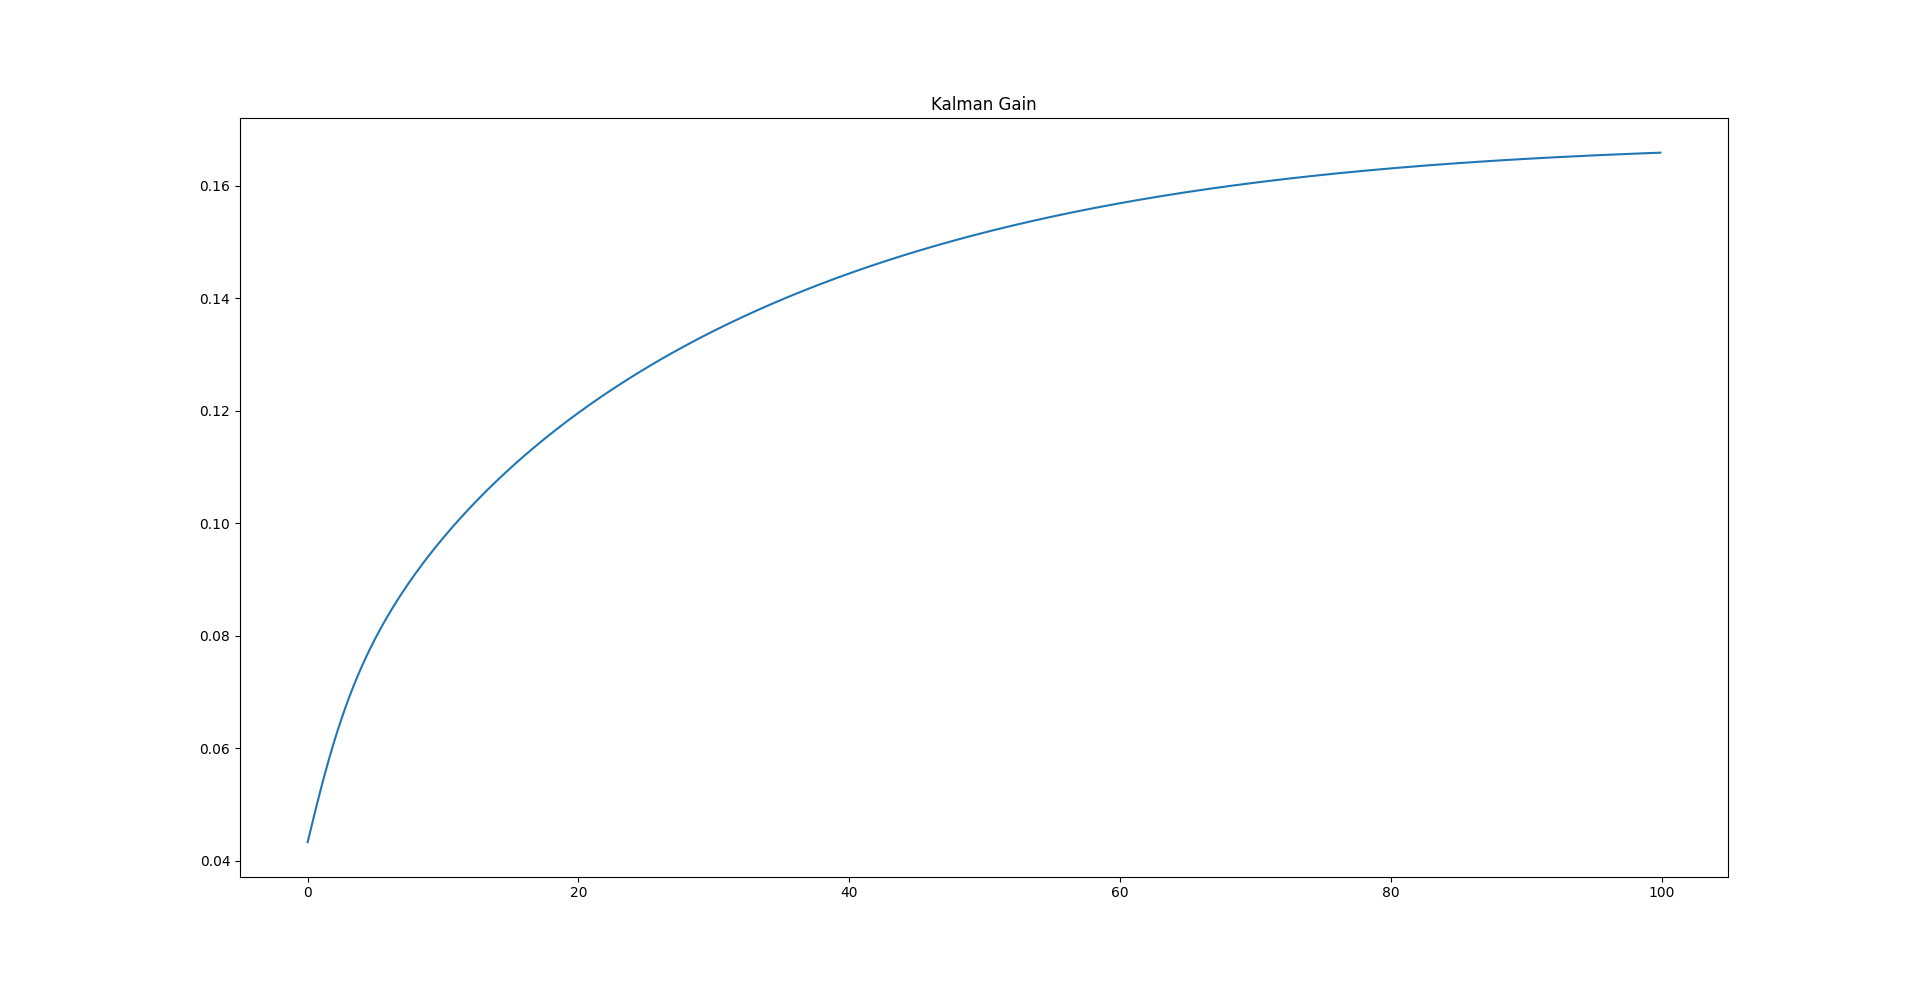
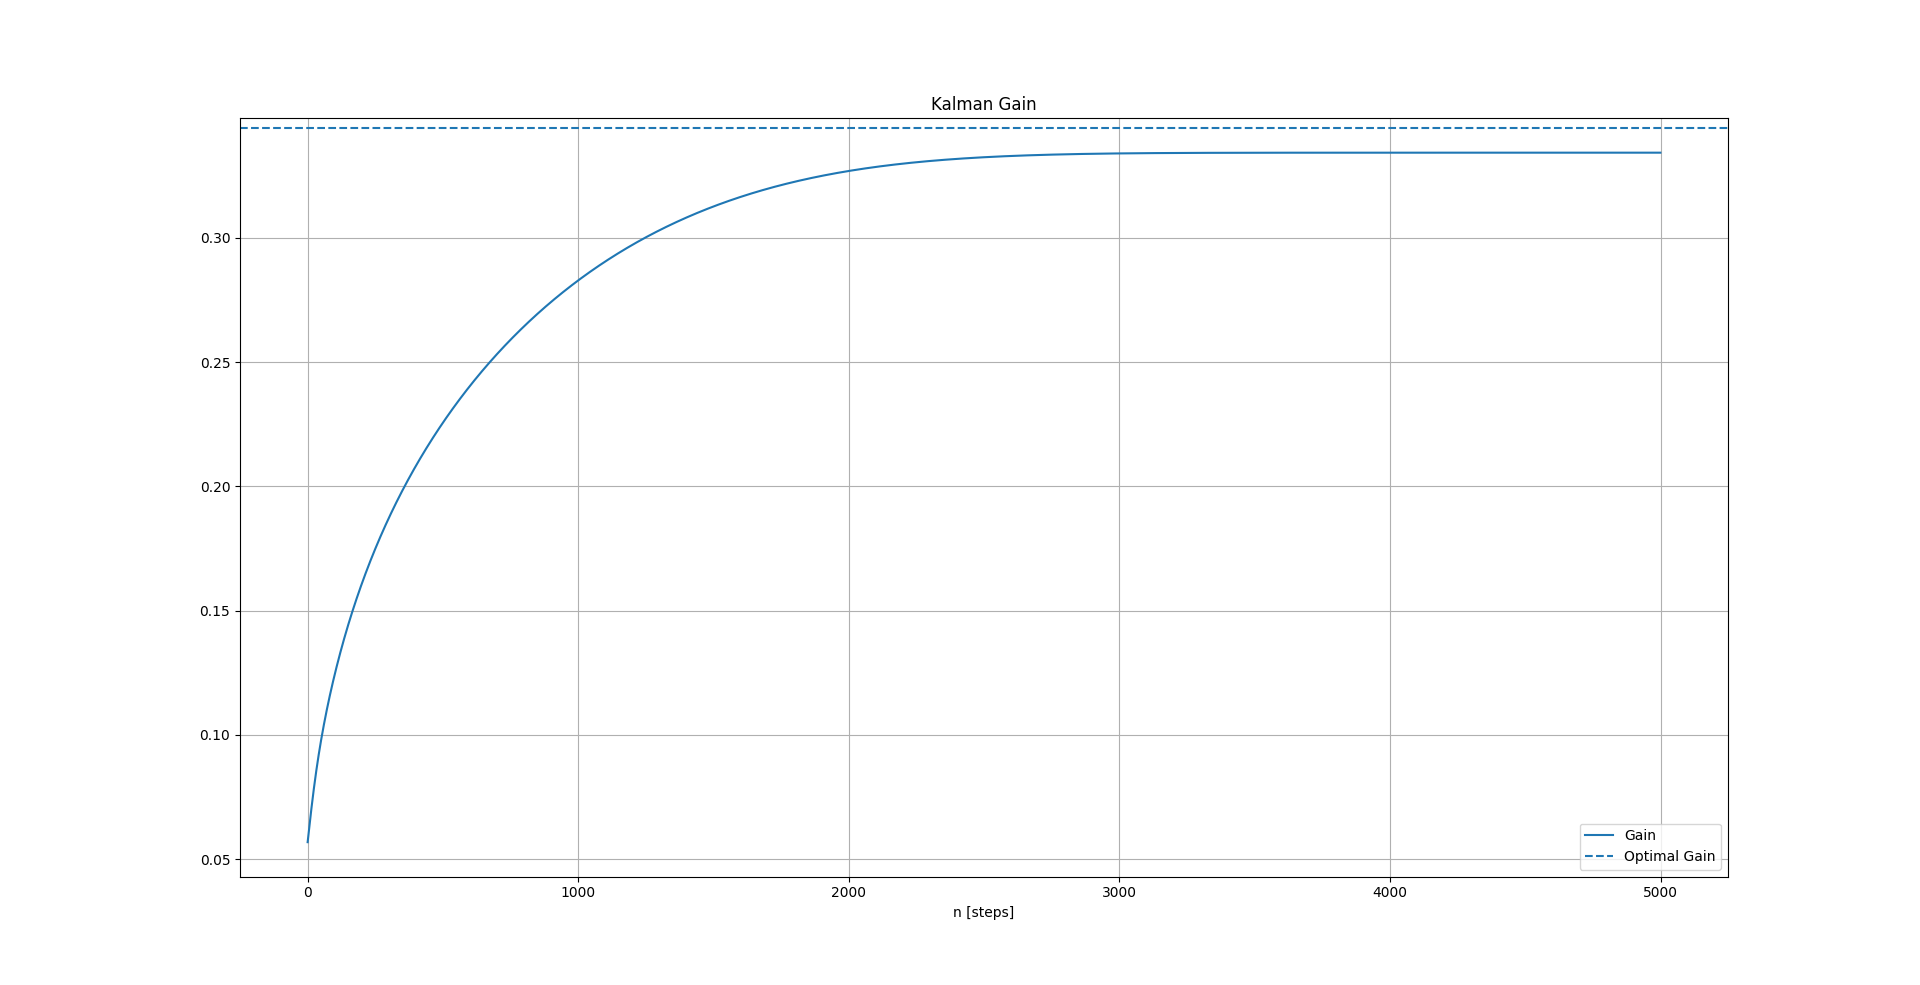
added algebraic riccati solver, gpu capability, and other bugfixes

diff --git a/examples/example1.py b/examples/example1.py
@@ -4,6 +4,7 @@
 import torch
 import numpy as np
 import matplotlib.pyplot as plt
+import scipy
 from kalman import test
 
 def simple_mass_spring_damp(T, Q, R, P, Ts=0.1):
@@ -12,6 +13,9 @@ def simple_mass_spring_damp(T, Q, R, P, Ts=0.1):
     m, mass
     c, damping coefficient
     k, spring constant
+    F, force
+    Ts, time step
+    N, simulation length
 
     E[ξ(t)ξ(t)^T] = Q
     E[ω(t)ω(t)^T] = R
@@ -20,63 +24,97 @@ def simple_mass_spring_damp(T, Q, R, P, Ts=0.1):
     y(t) = H x(t) + ω(t)
     {ξ}_t∈Z, uncorrelated zero-mean process
     {ω}_t∈Z, measurement noise vectors
+    x(t) ∈ R^n, state of the system
+    y(t) ∈ R^m
     '''
     # (A,H) are known
+    H = np.array([[1.0, 0.0]])
+    C = 4
+    K = 2
+    M = 20
+    F = 1 
+    N = int(T/Ts)
+    A = np.array([[1, Ts], [Ts*(-K/M), 1+Ts*(-C/M)]])
+    B = np.array([0, Ts*(1/M)])
+    u = F
 
-    n, m = 2, 1
-    H = np.array([1.0, 0.0])
-    c = 4 # Damping constant
-    k = 1 # Stiffness of the spring
-    m = 20 # Mass
-    F = 1 # Force
-    Ts = 0.1
-    N = int(T/Ts) # Simulation length
-    x = np.zeros((2,N))
-    y = np.zeros(N)
-    ξ = np.random.normal(0, Q, size=N)
-    ω = np.random.normal(0, R, size=N)
-    ξ = np.zeros(N)
-    x[:,0] = [0,0] # Initial Position
-
-    A = np.array([[1, Ts], [Ts*(-k/m), 1+Ts*(-c/m)]])
-    B = np.array([0, Ts*(1/m)])
-    for k in range(N-1):
-        x[:,k+1] = A @ x[:,k] + B * F + ξ[k]
-        y[k+1] = H @ x[:,k] + ω[k]
-    return y, A, H
+    n = A.shape[0]
+    m = H.shape[0]
+    x = np.zeros((n,N+1))
+    y = np.zeros((m,N))
+    ξ = np.random.normal(0, np.sqrt(Q),size=(N+1,n)).T * np.sqrt(Ts) 
+    ω = np.random.normal(0, R, size=(N,m)).T * 1/np.sqrt(Ts)
+    m_0 = np.random.normal(0, P)
+    x[:,0] = [m_0,0]
+    for k in range(N):
+        x[:,k+1] = A @ x[:,k] + B * u + ξ[:,k]
+        y[:,k] = H @ x[:,k] + ω[:,k]
+    return x[:,:-1], y, A, H
 
 if __name__ == "__main__":
 
-    nsim = 20
-    Q = 0.1
+    #nsim = 20
+    #batch_sizes = [10, 20, 30]
+
+    torch.manual_seed(100)
+    np.random.seed(100)
+    n, m = 2, 1
+    Q = np.ones(n) * 0.1
     R = 0.1
     P = 0.05
     Ts = 0.1
-    N_array = [100, 200, 500]
-    batch_sizes = [10, 20, 30]
+    T = 100
+    steps = 5000
+    N = int(T/Ts)
 
-    for N in N_array:
-        print('Horizon:', N)
-        x = torch.arange(N)
-        y, A, H = simple_mass_spring_damp(N, Q, R, P)
-        t = np.arange(0, N, Ts)
-        model = test.Model(y, A, H, P)
-        y = torch.Tensor(y)
-        losses, preds, weights = test.sgd(model, y, int(N/Ts))
+    print('Horizon:', T)
+    x, y, A, H = simple_mass_spring_damp(T, Q, R, P)
+    t = np.arange(0, T, Ts)
+    model = test.Model(A, H)
+    losses, preds, weights = test.sgd(model, y, N, steps)
+    print("Kalman Gain L: ", weights[-1])
+    
+    # P = APA^T - APH^T (HPH^T + R)^(-1) HPA^T + Q 
+    Q = np.ones((n,n)) * 0.01
+    P = scipy.linalg.solve_discrete_are(A.T,H.T,Q,R)
+    L = A @ P @ H.T @ np.linalg.inv(H @ P @ H.T + R)
+    print("P: ", P)
+    print("L: ", L)
+
+    for i in range(y.shape[0]):
+
         plt.figure()
-        plt.plot(t, y)
-        plt.plot(t, preds, color='r')
+        plt.plot(t, x[i])
+        plt.plot(t, preds[i], color='r')
         plt.title('Simulation of Mass-Spring-Damper System')
         plt.xlabel('t [s]')
         plt.ylabel('x(t)')
         plt.grid()
         plt.legend(["x", "filtered x"])
         plt.show()
+
+        plt.figure()
+        plt.plot(t, y[i])
+        plt.plot(t, preds[i], color='r')
+        plt.title('Simulation of Mass-Spring-Damper System')
+        plt.xlabel('t [s]')
+        plt.ylabel('y(t)')
+        plt.grid()
+        plt.legend(["y", "filtered y"])
+        plt.show()
+
         plt.figure()
         plt.plot(losses)
         plt.title('Loss Function')
+        plt.xlabel('n [steps]')
+        plt.grid()
         plt.show()
+
         plt.figure()
+        plt.plot(weights)
+        plt.axhline(L[i], linestyle='--')
         plt.title('Kalman Gain')
-        plt.plot(t, weights)
+        plt.xlabel('n [steps]')
+        plt.legend(["Gain", "Optimal Gain"])
+        plt.grid()
         plt.show()

diff --git a/src/kalman/test.py b/src/kalman/test.py
@@ -58,53 +58,53 @@ class Model(torch.nn.Module):
     P converges when (A,H) is observable and the (A, Q^(1/2)) is controllable
     L_∞ = A P_∞ H^T ( H P_∞ H^T + R )^(-1)
     '''
-    def __init__(self, y, A, H, P):
+    def __init__(self, A, H):
         super().__init__()
-        #L = A @ P @ H.T @ np.linalg.inv(H @ P @ H.T + R)
+        self.device = torch.device('cuda' if torch.cuda.is_available() else 'cpu')
+        print('Using device:', self.device)
         weights = torch.distributions.Uniform(0, 0.5).sample()
-        self.A = A
-        self.H = H
-        self.y = y
+        self.A = torch.Tensor(A).to(self.device)
+        self.H = torch.Tensor(H).to(self.device)
         self.weights = torch.nn.Parameter(weights)
-    def forward(self, N):
-        A = torch.Tensor(self.A)
-        H = torch.Tensor(self.H)
-        y = torch.Tensor(self.y)
+
+    def forward(self, y, N):
+        A = self.A
+        H = self.H
         L = self.weights
-
-        #m_0 = 0
-        #partial_sum = 0
-        #for t in range(N - 1):
-        #    partial_sum += H@(A - L*H)**(N-1-t) * L * y[t]
-        #yhat = H@(A - H*L)**(N) * m_0 + partial_sum
-        #print(yhat)
-
-    #    B = np.array([0, Ts*(1/m)])
-    #    for k in range(N-1):
-    #        x[:,k+1] = A @ x[:,k] + B * F + ξ[k]
-        xhat = torch.zeros((2,N))
-        yhat = torch.zeros(N)
-        for k in range(N-1):
-            xhat[:,k+1] = A @ xhat[:,k] + L * (y[k] - H @ xhat[:,k]) 
-            yhat[k+1] = H @ xhat[:,k]
+        y = torch.Tensor(y).to(self.device)
+        n = A.shape[0]
+        m = y.shape[0]
+        xhat = torch.zeros((n,N+1), device=self.device)
+        yhat = torch.zeros((m,N), device=self.device)
+        for k in range(N):
+            xhat[:,k+1] = A @ xhat[:,k] + L * (y[:,k] - H @ xhat[:,k]) 
+            yhat[:,k] = H @ xhat[:,k]
         return yhat
 
-def sgd(model, y, N, n=1000, lr=1e-3, opt_params='adam'):
+def sgd(model, y, N, steps=1000, lr=1e-3, opt_params='adam'):
     '''
     y, observation vector
-    N, Horizon
+    N, time steps
+    steps, optimising num of loops
+    lr, learning rate
     '''
     losses = []
     weights = []
+
     if opt_params == 'adam':
         opt = torch.optim.Adam(model.parameters(), lr=lr)
     elif opt_params == 'sgd':
         opt = torch.optim.SGD(model.parameters(), lr=lr, momentum=0.9)
     else:
         assert True, "Not supported optimizer"
-    pbar = tqdm(total=n, unit='epochs')
-    for i in range(n):
-        preds = model(N)
+
+    device = torch.device('cuda' if torch.cuda.is_available() else 'cpu')
+    y = torch.Tensor(y).to(device)
+    model = model.to(device)
+
+    pbar = tqdm(total=steps, unit='epochs')
+    for i in range(steps):
+        preds = model(y,N)
         loss = torch.functional.F.mse_loss(preds, y)
         loss.backward()
         opt.step()
@@ -112,6 +112,6 @@ def sgd(model, y, N, n=1000, lr=1e-3, opt_params='adam'):
         losses.append(float(loss))
         weights.append(float(model.weights))
         pbar.update(1)
-    print(model.weights)
-    preds = model(N).detach().numpy()
+    pbar.close()
+    preds = model(y,N).cpu().detach().numpy()
     return losses, preds, weights

diff --git a/README.md b/README.md
@@ -11,10 +11,28 @@ pip install .
 python3 examples/example1.py
 ```
 ### Response
-![Response](img/Figure_1.png)
+#### State x
+Mass = 20 kg
+![Response](img/x_1.png)
+Mass = 5 kg
+![Response](img/x_2.png)
+
+#### State y
+Mass = 20 kg
+![Response](img/y_2.png)
+Mass = 5 kg
+![Response](img/y_2.png)
+
 ### Error
+Mass = 20 kg
 ![Error](img/gradient_1.png)
+Mass = 5 kg
+![Error](img/gradient_2.png)
+
 ### Kalman Gain
+Mass = 20 kg
 ![Gain](img/gain_1.png)
+Mass = 5 kg
+![Error](img/gain_2.png)
 
 
